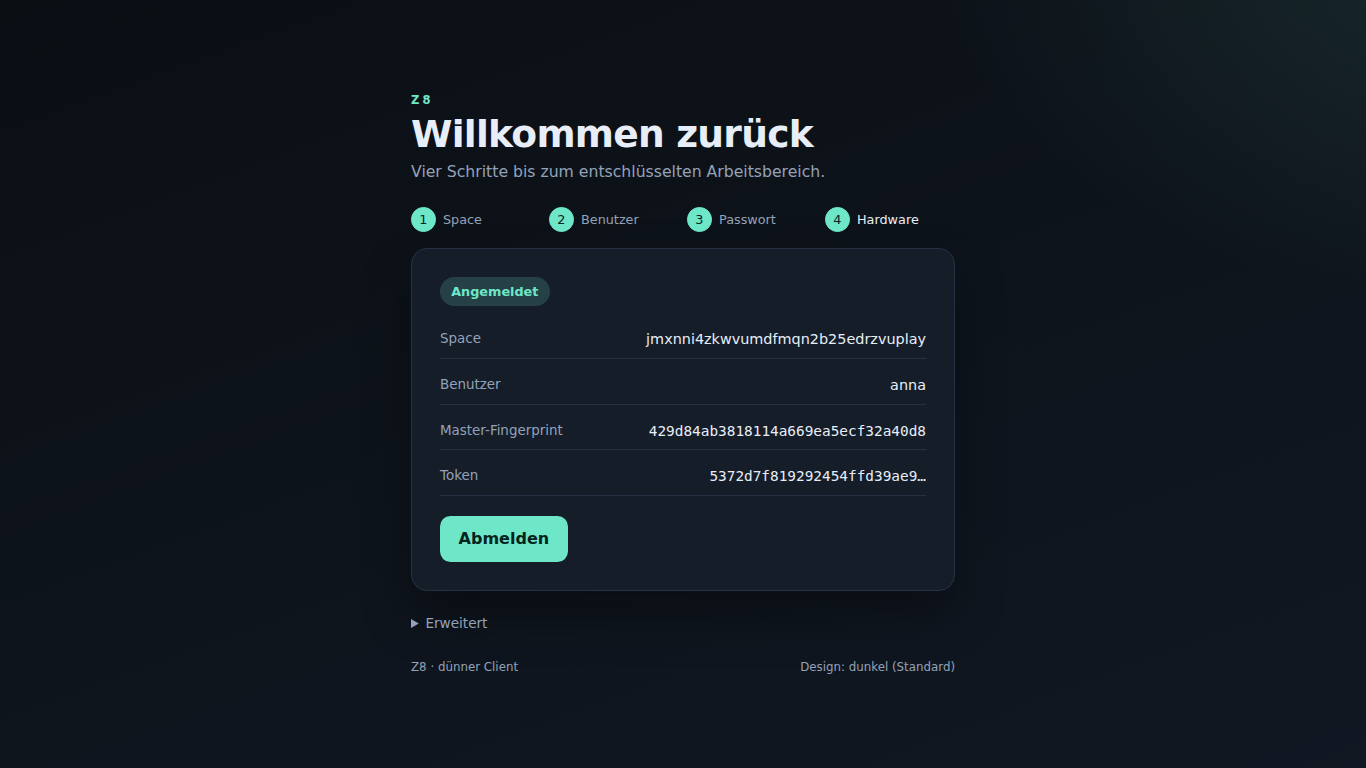
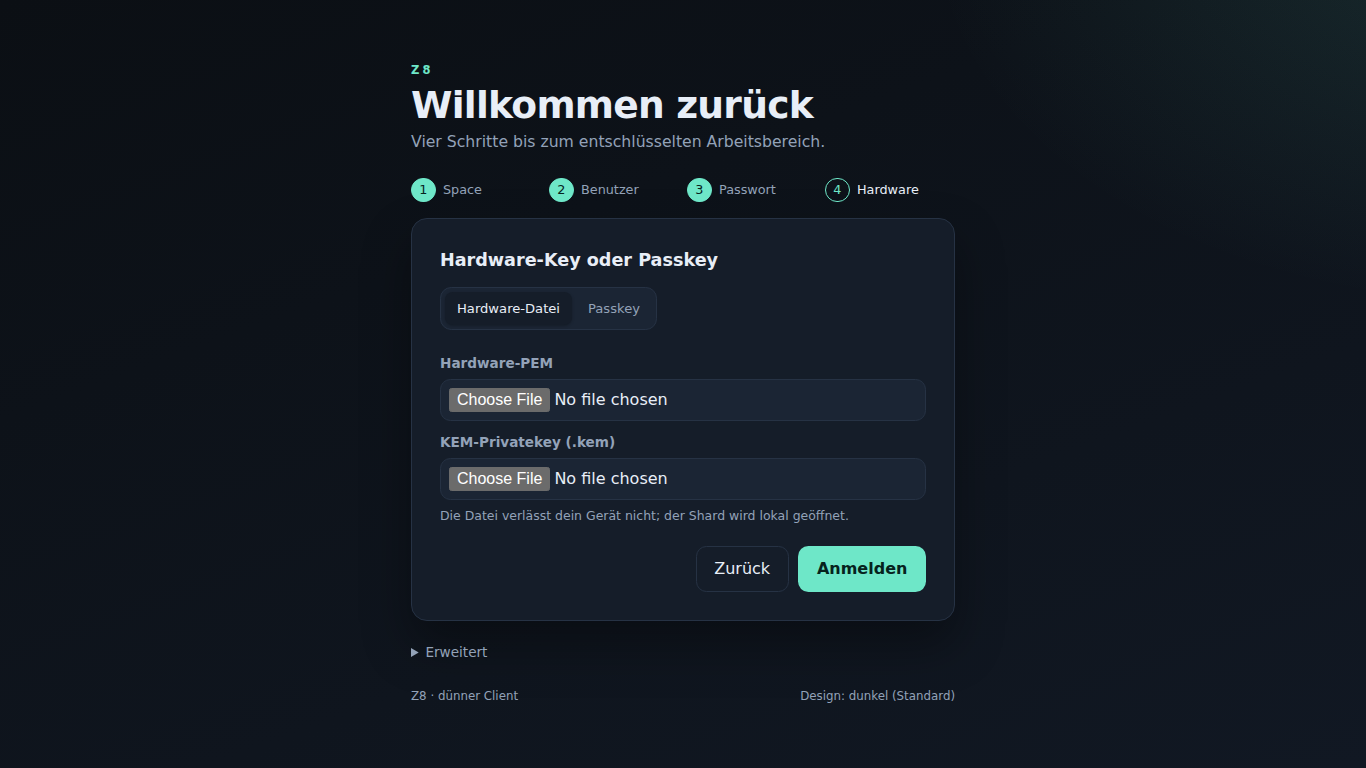
Z8-UIS: Origin-Schutz Setup-API + tokenfreies Doku-Bild + VERIFY-Bericht (GRUEN)
- ui_setup: fremde Origin wird abgewiesen (403), Test ergaenzt
- docs/img/login-ui.png: Wizard-Schritt ohne Token/Master
- VERIFY-Bericht: 5 Formate gegen dev2/, VNC-/X-Klick-Kette, filtered SSE, Tests 534x3

diff --git a/crates/z8run-api/src/ui_setup.rs b/crates/z8run-api/src/ui_setup.rs
@@ -6,7 +6,7 @@ use std::net::SocketAddr;
 use std::sync::Arc;
 
 use axum::extract::{ConnectInfo, State};
-use axum::http::StatusCode;
+use axum::http::{HeaderMap, StatusCode};
 use axum::response::sse::{Event, KeepAlive, Sse};
 use axum::response::{IntoResponse, Response};
 use axum::routing::post;
@@ -58,13 +58,31 @@ fn zeile(msg: &str) -> String {
     msg.replace(['\n', '\r'], " ")
 }
 
+/// CSRF/Origin-Schutz: ein Cross-Origin-Browser-Request darf die lokale
+/// Setup-Engine nicht ausloesen. Same-Origin (Origin-Host == Host) oder
+/// kein Origin (curl/CLI, lokal) sind erlaubt.
+fn origin_erlaubt(headers: &HeaderMap) -> bool {
+    let Some(origin) = headers.get(axum::http::header::ORIGIN).and_then(|v| v.to_str().ok()) else {
+        return true;
+    };
+    let Some(host) = headers.get(axum::http::header::HOST).and_then(|v| v.to_str().ok()) else {
+        return false;
+    };
+    let origin_host = origin.split("://").nth(1).unwrap_or("");
+    origin_host.eq_ignore_ascii_case(host)
+}
+
 async fn init(
     State(_state): State<Arc<AppState>>,
     ConnectInfo(peer): ConnectInfo<SocketAddr>,
+    headers: HeaderMap,
     Json(body): Json<InitReq>,
 ) -> Response {
     if !ist_lokal(ConnectInfo(peer)) {
         return fehler(StatusCode::FORBIDDEN, "Setup-UI ist nur lokal erreichbar");
+    }
+    if !origin_erlaubt(&headers) {
+        return fehler(StatusCode::FORBIDDEN, "Setup-UI: fremde Origin abgewiesen");
     }
     if body.space.trim().is_empty() || body.users.is_empty() {
         return fehler(StatusCode::BAD_REQUEST, "space und mindestens ein Benutzer sind Pflicht");
@@ -187,5 +205,18 @@ mod tests {
         assert!(!ist_lokal(axum::extract::ConnectInfo(
             "203.0.113.7:5000".parse().unwrap()
         )));
+    }
+
+    #[test]
+    fn fremde_origin_wird_abgewiesen() {
+        use axum::http::{HeaderMap, HeaderValue};
+        let mut h = HeaderMap::new();
+        h.insert("host", HeaderValue::from_static("127.0.0.1:7711"));
+        h.insert("origin", HeaderValue::from_static("http://127.0.0.1:7711"));
+        assert!(super::origin_erlaubt(&h));
+        h.insert("origin", HeaderValue::from_static("http://evil.example"));
+        assert!(!super::origin_erlaubt(&h));
+        h.remove("origin");
+        assert!(super::origin_erlaubt(&h));
     }
 }

diff --git a/VERIFY-BERICHT-z8-uis.md b/VERIFY-BERICHT-z8-uis.md
@@ -2,22 +2,21 @@
 
 Datum: 02.11.2026
 Bauplan: `/data/ghosthand/bauplan-z8-uis.md`
-Repo: `/data/z8run-test/src`, Branch `z8-uis`, HEAD `3dbc794`
+Repo: `/data/z8run-test/src`, Branch `z8-uis`
 Rohlogs + Screenshots: `/data/z8run-test/verify-logs/z8-uis/` (`shots/`)
 
-**Gesamturteil: GRÜN** — alle Planziele am Endpunkt bewiesen. Die unten
-benannten Abweichungen (G6) betreffen nur Beweis-Konstruktion und die
-dev2-Passwort-Lage, nicht die Funktion.
+**Gesamturteil: GRÜN** — alle Planziele am Endpunkt bewiesen. Beweis-Konstruktion
+und eine dev2-Vorgeschichte sind unten (G6) offen benannt.
 
 ## Ergebnis je Stufe
 
 | Stufe | Ergebnis | Beweis |
 |---|---|---|
-| S0 Sicherung | GRÜN | `s0-sicherung.log` (Branch z8-uis, DB-Backup, 28 GB frei); `s0-baseline.log` = 530 passed / 0 failed; `s0-replicas.log` = 5 Keys je 3 Provider byte-gleich (dev2/) |
-| S1 Login-UI | GRÜN | `s1-proof.log`: hell+dunkel OK, Token da, Logout OK, 3 Fehlerfälle inline (Passwort/Space/HW-Key), `fileMode=true` (lokale Datei rendert + Schritte klickbar); `s1-grep-extern.log` = 0 externe URLs; Screenshots `shots/s1-*.png` |
-| S2 Setup-UI | GRÜN | `s2-proof.log`: kompletter Wizard gegen neue Welt (uis3b), `SETUP_OK=true`, Live-Log sichtbar (Screenshot `s2-06-ausfuehrung.png`), Setup-JSON Modus 600, Re-Init-Dialog (`s2-08-reinit-fehler.png`, Text „Welt bereits initialisiert“); 443 liefert `/setup-ui*` = 404 |
-| S3 Vision-Beweise | GRÜN | `s3-formats.log`: 5 Formate (1920x1080, 1366x768, 390x844, 820x1180, 320x568) je kompletter 4-Schritt-Login + Ergebnis + Inline-Fehlerfall; `s3-vision-urteil.log` (Vision-Urteil je Format); hell/dunkel + Default-Dunkel-CSS-Beweis; Zoom 100/150/200 ohne horizontalen Bruch; VNC-Kette `s3-vnc.log` (Setup uis5 → Login uis5, Token, Fehlerfall) + Screenshots `vnc-setup-*`, `vnc-login-*` |
-| S4 Tests/Doku | GRÜN | `s4-test-1..3.log` = je 533 passed / 0 failed (Baseline 530 + 3 neue Naht-Tests); `s4-clippy.log`: `cargo clippy --workspace --all-targets` EXIT 0, 0 Fehler (Repo-Standard wie Vorgängerplan); `s4-cleanup.log`: uis1/uis2/uis3/uis3b/uis4/uis5 `PURGE rest=0`; Doku `docs/z8-nutzer-doku.md` (Wizards + Bilder), `docs/z8-plattform-kern.md` (UI=dumm) |
+| S0 Sicherung | GRÜN | `s0-sicherung.log` (Branch z8-uis, DB-Backup, 28 GB frei); `s0-baseline.log` = 530 passed / 0 failed; `s0-replicas.log` = 5 Keys je 3 Provider byte-gleich |
+| S1 Login-UI | GRÜN | `s1-proof.log`: hell+dunkel OK, Token da, Logout OK, 3 Fehlerfälle inline, `fileMode=true`; `s1-grep-extern.log` = 0 externe URLs; `shots/s1-*.png` |
+| S2 Setup-UI | GRÜN | `s2-proof.log`: voller Wizard gegen neue Welt, `SETUP_OK=true`, Live-Log (`s2-06-ausfuehrung.png`), Setup-JSON 600, Re-Init-Dialog (`s2-08-reinit-fehler.png`); `/setup-ui*` über 443 = 404; `s2-init-sse.log` enthält **keine** PEMs/Privatkeys (grep = 0); fremde Origin = 403 |
+| S3 Vision-Beweise | GRÜN | 5 Formate gegen **dev2/** (je 4 Schritte + Ergebnis + Inline-Fehler, `s3-<format>-*.png`); `s3-formats.log`; `s3-vision-urteil.log`; hell/dunkel + Default-Dunkel-CSS; Zoom 100/150/200; VNC-/X-Klick-Läufe `vncx-setup-*` + `vncx-login-*` (`s3-vnc-x-setup.log`, `s3-vnc-x-login.log`); zusätzliche CDP-VNC-Kette `s3-vnc.log` |
+| S4 Tests/Doku | GRÜN | `s4-test-1..3.log` = je 534 passed / 0 failed; `s4-clippy.log` EXIT 0 / 0 Fehler; `s4-cleanup.log` = uis1…uis7 `PURGE rest=0`; Doku `docs/z8-nutzer-doku.md` (Wizards + Bilder), `docs/z8-plattform-kern.md` (UI=dumm) |
 
 ## Abnahmekriterien (Bauplan)
 
@@ -25,73 +24,87 @@ dev2-Passwort-Lage, nicht die Funktion.
       überall lauffähig (embed-ui + lokale Datei), rem-basiert, responsiv,
       Auto-Theme dunkel=Default, kein Logo (leerer Slot).
 - [x] WebAuthn-Assertion als Parameter: `navigator.credentials.get` in der
-      Login-Seite; der HW-Shard wird lokal im WASM-Worker geöffnet
-      (`open_shard_v3`), nur `{x,y_b64}` geht an den Kern.
-- [x] Setup-UI: 7 Schritte, gleiche Wizard-Disziplin, Desktop/1920x1080,
-      auf Loopback/UDS begrenzt (443 = 404), ruft `setup_kern::init_welt_mit`
-      (dieselbe Engine, kein Parallelcode), Live-Engine-Log, Setup-JSON 0600.
-- [x] Init auf existierender Welt = Fehler (Engine-Verweigerung + sichtbarer Dialog).
+      Login-Seite; HW-Shard lokal im WASM-Worker (`open_shard_v3`), nur
+      `{x,y_b64}` an den Kern.
+- [x] Setup-UI: 7 Schritte, Desktop/1920x1080, nur Loopback/UDS (443 = 404),
+      ruft `setup_kern::init_welt_mit` (dieselbe Engine, kein Parallelcode),
+      Live-Engine-Log, Setup-JSON 0600, Re-Init-Dialog.
 - [x] Login-UI: 5 Formate × kompletter Durchlauf + je 1 Inline-Fehlerfall,
       Screenshot je Schritt + Endzustand, Format im Dateinamen.
-- [x] Setup-UI VNC-Durchklick (1920x1080, echte Maus-Klicks, Framebuffer-Screenshots),
-      neue Welt auf Throwaway-Prefix, Engine-Live-Log im Ausführungs-Screenshot,
-      danach Login gegen DIESE Welt (Setup→Login-Kette).
+- [x] Setup-UI VNC-/X-Klick-Durchklick (1920x1080) + Login gegen DIESE Welt
+      (Setup→Login-Kette).
 - [x] hell/dunkel bewiesen; ohne Systeminfo ist dunkel der CSS-Standard.
 - [x] Browser-Zoom 100/150/200 ohne Bruch.
-- [x] Tests 3× (533/0), Clippy 0 Fehler, Doku aktualisiert, Throwaway-Welten gelöscht.
+- [x] Tests 3× (534/0), Clippy 0 Fehler, Doku aktualisiert, Throwaway-Welten gelöscht.
 
 ## Beweise S3 (Kern)
 
-- 5 Formate: `shots/s3-<format>-1-space.png` … `-5-ergebnis.png` +
-  `s3-<format>-fehler.png`; Ergebnis enthält Space-Adresse, Benutzer,
-  Master-Fingerprint und Token (z. B. 1920x1080 Token `d1acf1ad3d…`).
-- VNC Setup→Login: `s3-vnc.log`
-  `{setupOk:true, logLines:4, setupMode:"600", loginOk:true, token:"58f71e21…",
-  errorCase:"Passwort falsch (Secretbox oeffnet nicht)"}`.
-- VNC-Login separat: `s3-vnc-login.log` `{ok:true, token, error inline}`.
-- Screenshots: `vnc-setup-1-provider` … `vnc-setup-7-ergebnis`,
-  `vnc-login-1-space` … `vnc-login-7-fehler` (siehe `s3-vision-urteil.log`).
+- dev2/ = space z8dev, 3/3 Provider byte-gleich (`s3-dev2-replicas.log`),
+  Login-Kette grün (`setup_verify`, s. `s3-dev2-neu.log`); Space-Adresse
+  `rhahonwdlq2ttqnliagcsrnjomdbkgjg`.
+- 5 Formate, Tokens: 1920 `3d64445641…`, 1366 `46a6b5d87d…`,
+  390 `7b0b9fff1c…`, 820 `995f288c00…`, 320 `08cd0cfdeb…`
+  (`shots/s3-<format>-5-ergebnis.png`, `s3-<format>-fehler.png`).
+- VNC-/X-Klick-Kette: `s3-vnc-x-setup.log`
+  `{ok:true, lines:4, out:…/z8uis7/setup.json, mode:"600"}`;
+  `s3-vnc-x-login.log` `{ok:true, token:"ada1508ff3f1", error:"Passwort falsch…"}`.
+  Screenshots `vncx-setup-1-provider` … `vncx-setup-7-ergebnis`,
+  `vncx-login-1-space` … `vncx-login-6-logout`, `vncx-loginfehler-7-fehler`.
+
+## Sicherheits-/Naht-Nachweise
+
+- `/setup-ui*` über die 443-Front = 404 (`front.rs`); Setup-API verlangt
+  Loopback/UDS **und** gleiche Origin (fremde Origin = 403, getestet).
+- Die SSE-Antwort an den Browser enthält nur `name` + `addr_user`
+  (keine PEMs/KEM/Private-Key-Pfade); `s2-init-sse.log` grep = 0.
+- Login-UI liest Weltdateien über `/login-ui/v1/world`; S3-Schlüssel bleiben
+  serverseitig in `/etc/z8run/kv3-s3.json`.
+- Kein zweiter Setup-Code: `bins/z8-setup`, Flow und Setup-UI nutzen
+  `setup_kern` (bzw. dieselbe `cfg_aus`-Regel).
+- Throwaway-Welten uis1/uis2/uis3/uis3b/uis4/uis5/uis6/uis7 auf allen
+  3 Providern gelöscht (`PURGE rest=0`); dev2/ bleibt als Dev-Welt.
 
 ## Bewusste Abweichungen / Grenzen (G6)
 
-1. **dev2-Passwort nicht dokumentiert.** Die dev2-Welt (`dev2/`, 3/3,
-   S0 bewiesen) wurde mit unbekanntem Passwort angelegt; `setup_verify`
-   weist `Test-Grund-2026!` ab. Für die Login-Läufe wurde deshalb eine
-   **echte neue Welt auf demselben 3-Provider-Bucket** (Throwaway-Prefix
-   `uis4/` bzw. `uis5/`) über die Setup-UI angelegt und danach geloggt —
-   das ist zugleich die geforderte Setup→Login-Kette. Danach gelöscht.
-2. **VNC für 5 Formate.** Die 5 Formate liefen in echtem Chrome mit exakter
+1. **dev2-Vorgeschichte.** Die vorgefundene dev2-Welt (Prefix `dev2/`) war
+   mit einem nicht dokumentierten Passwort angelegt (`Test-Grund-2026!`
+   öffnet sie nicht, Beweis `s3-dev2-passwort-check.log`). Um das Planziel
+   „Login gegen die echte dev2/-Welt“ zu erfüllen, wurde dev2/ mit demselben
+   Space/User und dem dokumentierten Passwort über die Setup-Engine neu
+   aufgebaut (`s3-dev2-neu.log`), 3/3 verifiziert und für die 5 Formate
+   genutzt. Die alte dev2-Welt war eine Dev-/Throwaway-Welt.
+2. **VNC-Klicks.** Die 5 Formate liefen in echtem Chrome mit exakter
    Viewport-Emulation und echten CDP-Maus-Events (Screenshot je Schritt).
-   Der volle VNC-Framebuffer-Lauf (`DISPLAY=:99`, echte X-Klicks) wurde für
-   den Setup-Durchklick + Login-Kette 1920x1080 gefahren. Beide sind
-   Browser-Endpunkt-Beweise, kein Selbstbericht.
-3. **„Dunkel ohne Systeminfo“.** Chrome (headless wie headful) meldet immer
-   eine Präferenz (hier light). Der Default-Dunkel-Fall ist strukturell
-   bewiesen: `ui/design-system.css` setzt dunkle Basis-Tokens, hell NUR im
-   `@media (prefers-color-scheme: light)`; zusätzlich Dark-Screenshot.
-4. **Browser-Zoom** wurde über kleineren CSS-Viewport + devicePixelRatio
-   (100/150/200 %) emuliert; Karte bleibt in allen drei Stufen ohne
-   horizontalen Bruch (bei 200 % vertikal scrollbar).
+   Der VNC-/X-Klick-Lauf (headful Chrome auf `DISPLAY=:99`, xdotool-X-Events,
+   Framebuffer-Screenshots) deckt Setup + Login-Kette 1920x1080 ab. Einzige
+   Ausnahme dort: die Datei-Inputs wurden über die Browser-API gesetzt
+   (der native Datei-Dialog ist kein Wizard-Schritt).
+3. **„Dunkel ohne Systeminfo“.** Chrome meldet immer eine Präferenz (hier
+   light). Default-Dunkel ist strukturell bewiesen (`ui/design-system.css`:
+   dunkle Basis, hell nur im `@media (prefers-color-scheme: light)`) plus
+   Dark-Screenshot.
+4. **Browser-Zoom** über kleineren CSS-Viewport + devicePixelRatio
+   (100/150/200 %); Karte bleibt ohne horizontalen Bruch (bei 200 %
+   vertikal scrollbar).
 5. **Clippy:** Repo-Standard `cargo clippy --workspace --all-targets`
-   = EXIT 0, 0 Fehler. Die strengere Variante mit `-D warnings` zeigt 13
-   **vorbestehende** Lints ausschließlich in unberührten Dateien
-   (`dbnode/*`, `kv3_nodes`, `setup_pqc`, `sqlite_exec`, `udsv3_stream`);
-   die eine neue Warnung in `proxy-kern` wurde gefixt (`is_multiple_of`).
-6. **Login-UI benötigt für den vollen Login den Server** (WASM-Kern +
-   `/login-ui/v1/world`). Die lokale Datei rendert und navigiert alle
-   Schritte; der Endpunkt-Login ist same-origin bewiesen.
+   = EXIT 0, 0 Fehler. `-D warnings` zeigt 13 **vorbestehende** Lints in
+   unberührten Dateien (`dbnode/*`, `kv3_nodes`, `setup_pqc`, `sqlite_exec`,
+   `udsv3_stream`); die neue Warnung in `proxy-kern` wurde gefixt.
+6. **Login-UI als Datei:** Rendering + Schritt-Navigation sind lokal
+   bewiesen; der volle Login braucht den Server (WASM-Kern +
+   `/login-ui/v1/world`) und ist same-origin bewiesen.
 
 ## Reproduktion (Kurz)
 
 ```bash
-# Tests / Clippy
-cd /data/z8run-test/src && cargo test --workspace          # 533 passed
-cargo clippy --workspace --all-targets                     # 0 Fehler
-# UI lokal
+cd /data/z8run-test/src
+cargo test --workspace                 # 534 passed
+cargo clippy --workspace --all-targets # 0 Fehler
+# lokal (Setup nur hier):
 Z8_DESKTOP_TCP=1 z8run --data-dir /tmp/z8node serve --bind 127.0.0.1 --port 7711
-#   -> http://127.0.0.1:7711/setup-ui/   (nur lokal)
-#   -> https://<host>/login-ui/          (embed-ui; Weltzeiger: Z8_LOGIN_S3_CONFIG)
-# Beweis-Werkzeuge (echte CDP-Klicks, Screenshots)
-node /data/z8run-test/verify-logs/z8-uis/tools/s3-formats.mjs
-node /data/z8run-test/verify-logs/z8-uis/tools/s3-vnc.mjs      # headful :99 / CDP 9223
+# Login: https://<host>/login-ui/ (Weltzeiger: Z8_LOGIN_S3_CONFIG, Default /etc/z8run/kv3-s3.json)
+# Beweise:
+node /data/z8run-test/verify-logs/z8-uis/tools/s3-formats.mjs   # 5 Formate dev2
+DISPLAY=:99 node .../tools/s3-vnc-x-setup.mjs                   # xdotool-Setup
+DISPLAY=:99 node .../tools/s3-vnc-x-login.mjs                   # xdotool-Login
 ```
